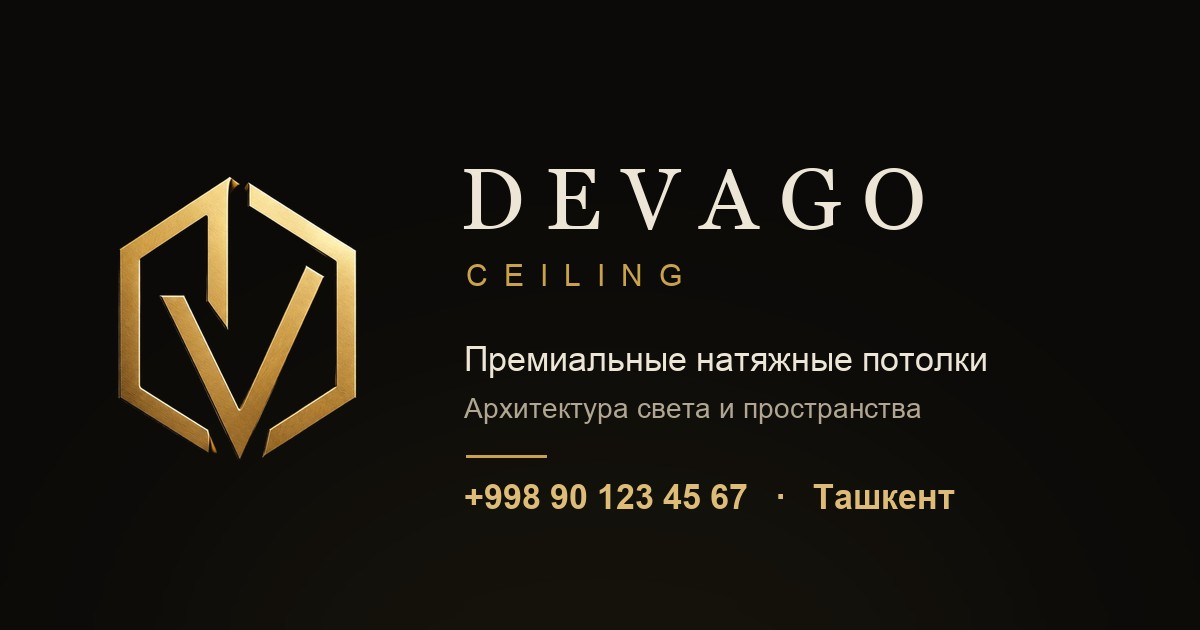
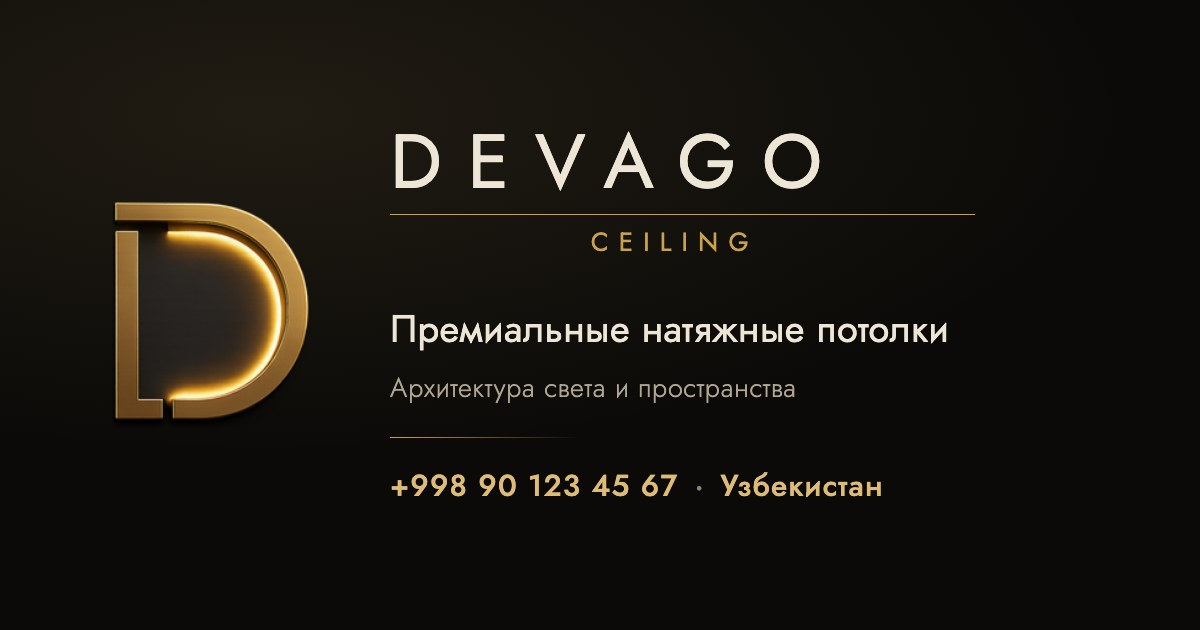
Картинка превью перерисована под сайт, световой короб описан верно
КАРТИНКА ССЫЛКИ. На og-image стоял ЧУЖОЙ знак: шестигранник с V, а логотип сайта это
золотая буква D. Плюс подпись «Ташкент», которую сегодня убрали со всего сайта.
Картинка собрана заново из тех же материалов, что и сайт: настоящий assets/logo.png,
локап DEVAGO и CEILING в Jost с золотой волосинкой, палитра сайта, «Узбекистан».
Исходник положен в tools/og-src.html, а не в корень: каталог tools закрыт маршрутом
404, поэтому служебный файл не отдаётся наружу, и следующая перерисовка это один
скриншот 1200x630, а не вёрстка заново.

СВЕТОВОЙ КОРОБ описан неверно и исправлен по замечанию Тахира. Я понял его как
карниз с подсветкой по периметру, а у клиента это СВЕТЯЩАЯСЯ ПАНЕЛЬ: подсветка внутри
короба, полотно светопрозрачное, светится вся плоскость. Переписаны подпись карточки
и абзац окна в обоих языках. Кадр cn-sol6 остаётся прежним до новой генерации: он
показывает карниз, то есть не тот узел.

Приёмка: переполнений ноль на четырнадцати ширинах в двух языках, окно решения
открывается с новым текстом в обоих языках, JS-ошибок ноль.

Changed region(s): [[0.0925, 0.2714, 0.8325, 0.7238], [0.3083, 0.2111, 0.7708, 0.4524], [0.3083, 0.6937, 0.8017, 0.8143]]

diff --git a/index.html b/index.html
@@ -2453,7 +2453,7 @@ footer{padding-bottom:104px}
       <button type="button" class="sol" data-modal="sol-1"><span class="ic"><svg viewBox="0 0 44 44" fill="none" stroke="currentColor" stroke-width="1.3"><path d="M8 12h28M8 12v8h9v-8"/><path d="M17 20h19" stroke-opacity=".5"/></svg></span><span class="tx"><b data-i18n="s1_h">Теневые системы</b><span data-i18n="s1_p">Идеально ровные стыки и чистая геометрия</span></span><svg class="arr" viewBox="0 0 24 24" fill="none" stroke="currentColor" stroke-width="1.6"><path class="am" d="M9 5l7 7-7 7"/><path class="ad" d="M5 12h14M13 6l6 6-6 6"/></svg></button>
       <button type="button" class="sol" data-modal="sol-2"><span class="ic"><svg viewBox="0 0 44 44" fill="none" stroke="currentColor" stroke-width="1.3"><path d="M8 14h28" stroke-opacity=".4"/><path d="M12 14h9M27 14h8" stroke-width="2.4" stroke-linecap="round"/><path d="M14 20l3 12M30 20l2 12" stroke-opacity=".3" stroke-dasharray="2 3"/></svg></span><span class="tx"><b data-i18n="s2_h">Световые линии</b><span data-i18n="s2_p">Чистый свет. Любые конфигурации</span></span><svg class="arr" viewBox="0 0 24 24" fill="none" stroke="currentColor" stroke-width="1.6"><path class="am" d="M9 5l7 7-7 7"/><path class="ad" d="M5 12h14M13 6l6 6-6 6"/></svg></button>
       <button type="button" class="sol" data-modal="sol-3"><span class="ic"><svg viewBox="0 0 44 44" fill="none" stroke="currentColor" stroke-width="1.3"><rect x="10" y="12" width="24" height="5" rx="1"/><circle cx="16" cy="26" r="3"/><circle cx="28" cy="26" r="3"/><path d="M16 29v6M28 29v6" stroke-opacity=".3" stroke-dasharray="2 3"/></svg></span><span class="tx"><b data-i18n="s3_h">Магнитные треки</b><span data-i18n="s3_p">Гибкое освещение под ваши задачи</span></span><svg class="arr" viewBox="0 0 24 24" fill="none" stroke="currentColor" stroke-width="1.6"><path class="am" d="M9 5l7 7-7 7"/><path class="ad" d="M5 12h14M13 6l6 6-6 6"/></svg></button>
-      <button type="button" class="sol" data-modal="sol-6"><span class="ic"><svg viewBox="0 0 44 44" fill="none" stroke="currentColor" stroke-width="1.3"><path d="M22 8l12 7v14l-12 7-12-7V15z"/><path d="M22 8v14M10 15l12 7 12-7M22 36V22" stroke-opacity=".5"/></svg></span><span class="tx"><b data-i18n="s6_h">Световой короб</b><span data-i18n="s6_p">Скрытый источник света по периметру потолка</span></span><svg class="arr" viewBox="0 0 24 24" fill="none" stroke="currentColor" stroke-width="1.6"><path class="am" d="M9 5l7 7-7 7"/><path class="ad" d="M5 12h14M13 6l6 6-6 6"/></svg></button>
+      <button type="button" class="sol" data-modal="sol-6"><span class="ic"><svg viewBox="0 0 44 44" fill="none" stroke="currentColor" stroke-width="1.3"><path d="M22 8l12 7v14l-12 7-12-7V15z"/><path d="M22 8v14M10 15l12 7 12-7M22 36V22" stroke-opacity=".5"/></svg></span><span class="tx"><b data-i18n="s6_h">Световой короб</b><span data-i18n="s6_p">Светящаяся панель из полупрозрачного полотна</span></span><svg class="arr" viewBox="0 0 24 24" fill="none" stroke="currentColor" stroke-width="1.6"><path class="am" d="M9 5l7 7-7 7"/><path class="ad" d="M5 12h14M13 6l6 6-6 6"/></svg></button>
       <button type="button" class="sol" data-modal="sol-4"><span class="ic"><svg viewBox="0 0 44 44" fill="none" stroke="currentColor" stroke-width="1.3"><path d="M8 12h28M30 12v7h6"/><path d="M14 16v16M19 16v13M24 16v16" stroke-opacity=".5"/></svg></span><span class="tx"><b data-i18n="s4_h">Скрытые карнизы</b><span data-i18n="s4_p">Эстетика без компромиссов. Шторы «из потолка»</span></span><svg class="arr" viewBox="0 0 24 24" fill="none" stroke="currentColor" stroke-width="1.6"><path class="am" d="M9 5l7 7-7 7"/><path class="ad" d="M5 12h14M13 6l6 6-6 6"/></svg></button>
       <button type="button" class="sol" data-modal="sol-5"><span class="ic"><svg viewBox="0 0 44 44" fill="none" stroke="currentColor" stroke-width="1.2"><path d="M22 8v6M22 30v6M8 22h6M30 22h6M12 12l4 4M28 28l4 4M32 12l-4 4M16 28l-4 4" stroke-linecap="round"/><circle cx="22" cy="22" r="3.4"/></svg></span><span class="tx"><b data-i18n="s5_h">Звёздное небо</b><span data-i18n="s5_p">Премиальные инсталляции эффектного неба</span></span><svg class="arr" viewBox="0 0 24 24" fill="none" stroke="currentColor" stroke-width="1.6"><path class="am" d="M9 5l7 7-7 7"/><path class="ad" d="M5 12h14M13 6l6 6-6 6"/></svg></button>
     </div>
@@ -2939,7 +2939,7 @@ var I18N = {
  s3_h:"<span class='dt'>Магнитные трековые системы</span><span class='mb'>Магнитные треки</span>",s3_p:"Гибкое освещение под ваши задачи",
  s4_h:"Скрытые карнизы",s4_p:"Эстетика без компромиссов. Шторы «из потолка»",
  s5_h:"Звёздное небо",s5_p:"Премиальные инсталляции эффектного неба",
- s6_h:"Световой короб",s6_p:"Скрытый источник света по периметру потолка",s6_d:"Короб по периметру прячет светодиодную ленту: виден только мягкий свет на потолке и стенах, самого источника не видно. Ровная заливка без бликов и точек: вечером работает как основной свет, днём как подсветка.",
+ s6_h:"Световой короб",s6_p:"Светящаяся панель из полупрозрачного полотна",s6_d:"Подсветка стоит внутри короба, а полотно светопрозрачное: светится вся плоскость целиком, ровно и без видимых точек. Даёт мягкий рассеянный свет там, где окна нет, и может работать основным светом комнаты.",
  c_kick:"Комбинированное решение DEVAGO",c_title:"Интерьер №3<br>Комбинация",c_title2:"Идеальная комбинация",
  c_p:"Соединяем теневые системы, световые линии, треки и скрытые карнизы в единую архитектурную композицию.",c_claim:"Это не просто потолок.<br>Это целостная система света.",
  a2:"Световые линии",a3:"Магнитные трековые системы",a4:"Скрытый карниз",a5:"Парящая подсветка",
@@ -3033,7 +3033,7 @@ var I18N = {
  s3_h:"<span class='dt'>Magnitli trek tizimlari</span><span class='mb'>Magnitli treklar</span>",s3_p:"Vazifangizga mos moslashuvchan yoritish",
  s4_h:"Yashirin karnizlar",s4_p:"Murosasiz estetika. Pardalar «shiftdan»",
  s5_h:"Yulduzli osmon",s5_p:"Taʼsirli osmonning premium installyatsiyalari",
- s6_h:"Yorugʻlik qutisi",s6_p:"Shift perimetri boʻylab yashirin yorugʻlik manbai",s6_d:"Perimetr boʻylab qutida yorugʻlik lentasi yashiringan: faqat shift va devordagi yumshoq yorugʻlik koʻrinadi, manbaning oʻzi koʻrinmaydi. Dogʻsiz bir tekis yoritish: kechqurun asosiy yorugʻlik, kunduzi esa qoʻshimcha yoritish.",
+ s6_h:"Yorugʻlik qutisi",s6_p:"Yarim shaffof polotnodan yorugʻlik paneli",s6_d:"Yoritish quti ichida turadi, polotno esa yorugʻlik oʻtkazadi: butun tekislik bir tekis va nuqtasiz yonadi. Deraza yoʻq joyda yumshoq tarqoq yorugʻlik beradi va xonaning asosiy yorugʻligi boʻlib ishlay oladi.",
  c_kick:"DEVAGO kombinatsiyalangan yechimi",c_title:"Interyer №3<br>Kombinatsiya",c_title2:"Ideal kombinatsiya",
  c_p:"Soya tizimlari, yorugʻlik chiziqlari, treklar va yashirin karnizlarni yagona arxitektura kompozitsiyasiga birlashtiramiz.",c_claim:"Bu shunchaki shift emas.<br>Bu yaxlit yorugʻlik tizimi.",
  a2:"Yorugʻlik chiziqlari",a3:"Magnitli trek tizimlari",a4:"Yashirin karniz",a5:"Muallaq yoritish",

diff --git a/tools/og-src.html b/tools/og-src.html
@@ -1,0 +1,36 @@
+<!doctype html>
+<meta charset="utf-8">
+<!-- ИСХОДНИК КАРТИНКИ ПРЕВЬЮ. Снимается скриншотом 1200x630 в assets/og-image.jpg.
+     Файл временный: лежит в корне сайта только потому, что Chrome не пускает
+     file:// к соседнему file:// из другой папки, а логотип нужен настоящий. -->
+<link rel="preconnect" href="https://fonts.googleapis.com">
+<link rel="preconnect" href="https://fonts.gstatic.com" crossorigin>
+<link href="https://fonts.googleapis.com/css2?family=Jost:wght@300;400;500&display=swap" rel="stylesheet">
+<style>
+  *{margin:0;padding:0;box-sizing:border-box}
+  html,body{width:1200px;height:630px}
+  body{background:#0B0A08;font-family:'Jost',system-ui,sans-serif;color:#EDE6D6;
+       display:flex;align-items:center;gap:64px;padding:0 96px;overflow:hidden;position:relative}
+  /* тёплый свет из левого верхнего угла, тот же приём, что на сайте */
+  body::before{content:"";position:absolute;inset:0;
+       background:radial-gradient(120% 90% at 22% 18%,rgba(222,188,119,.10),transparent 60%);}
+  .mark{width:230px;height:230px;object-fit:contain;flex:none;position:relative}
+  .tx{position:relative}
+  .lock b{display:block;font-weight:400;font-size:76px;line-height:1;letter-spacing:.34em;
+       margin-right:-.34em;padding-bottom:14px;border-bottom:1px solid #C9A24B}
+  .lock small{display:block;text-align:center;font-weight:400;font-size:26px;line-height:1;
+       letter-spacing:.39em;text-indent:.39em;color:#C9A24B;margin-top:14px}
+  .h{margin-top:46px;font-size:38px;font-weight:400;letter-spacing:.01em}
+  .s{margin-top:12px;font-size:27px;font-weight:300;color:#B0A691;letter-spacing:.02em}
+  .rule{width:190px;height:1px;background:linear-gradient(90deg,#C9A24B,rgba(201,162,75,0));margin:30px 0 26px}
+  .c{font-size:30px;font-weight:500;color:#DEBC77;letter-spacing:.04em}
+  .c i{font-style:normal;color:#8D8373;margin:0 16px}
+</style>
+<img class="mark" src="../assets/logo.png" alt="">
+<div class="tx">
+  <div class="lock"><b>DEVAGO</b><small>CEILING</small></div>
+  <div class="h">Премиальные натяжные потолки</div>
+  <div class="s">Архитектура света и пространства</div>
+  <div class="rule"></div>
+  <div class="c">+998 90 123 45 67<i>·</i>Узбекистан</div>
+</div>
